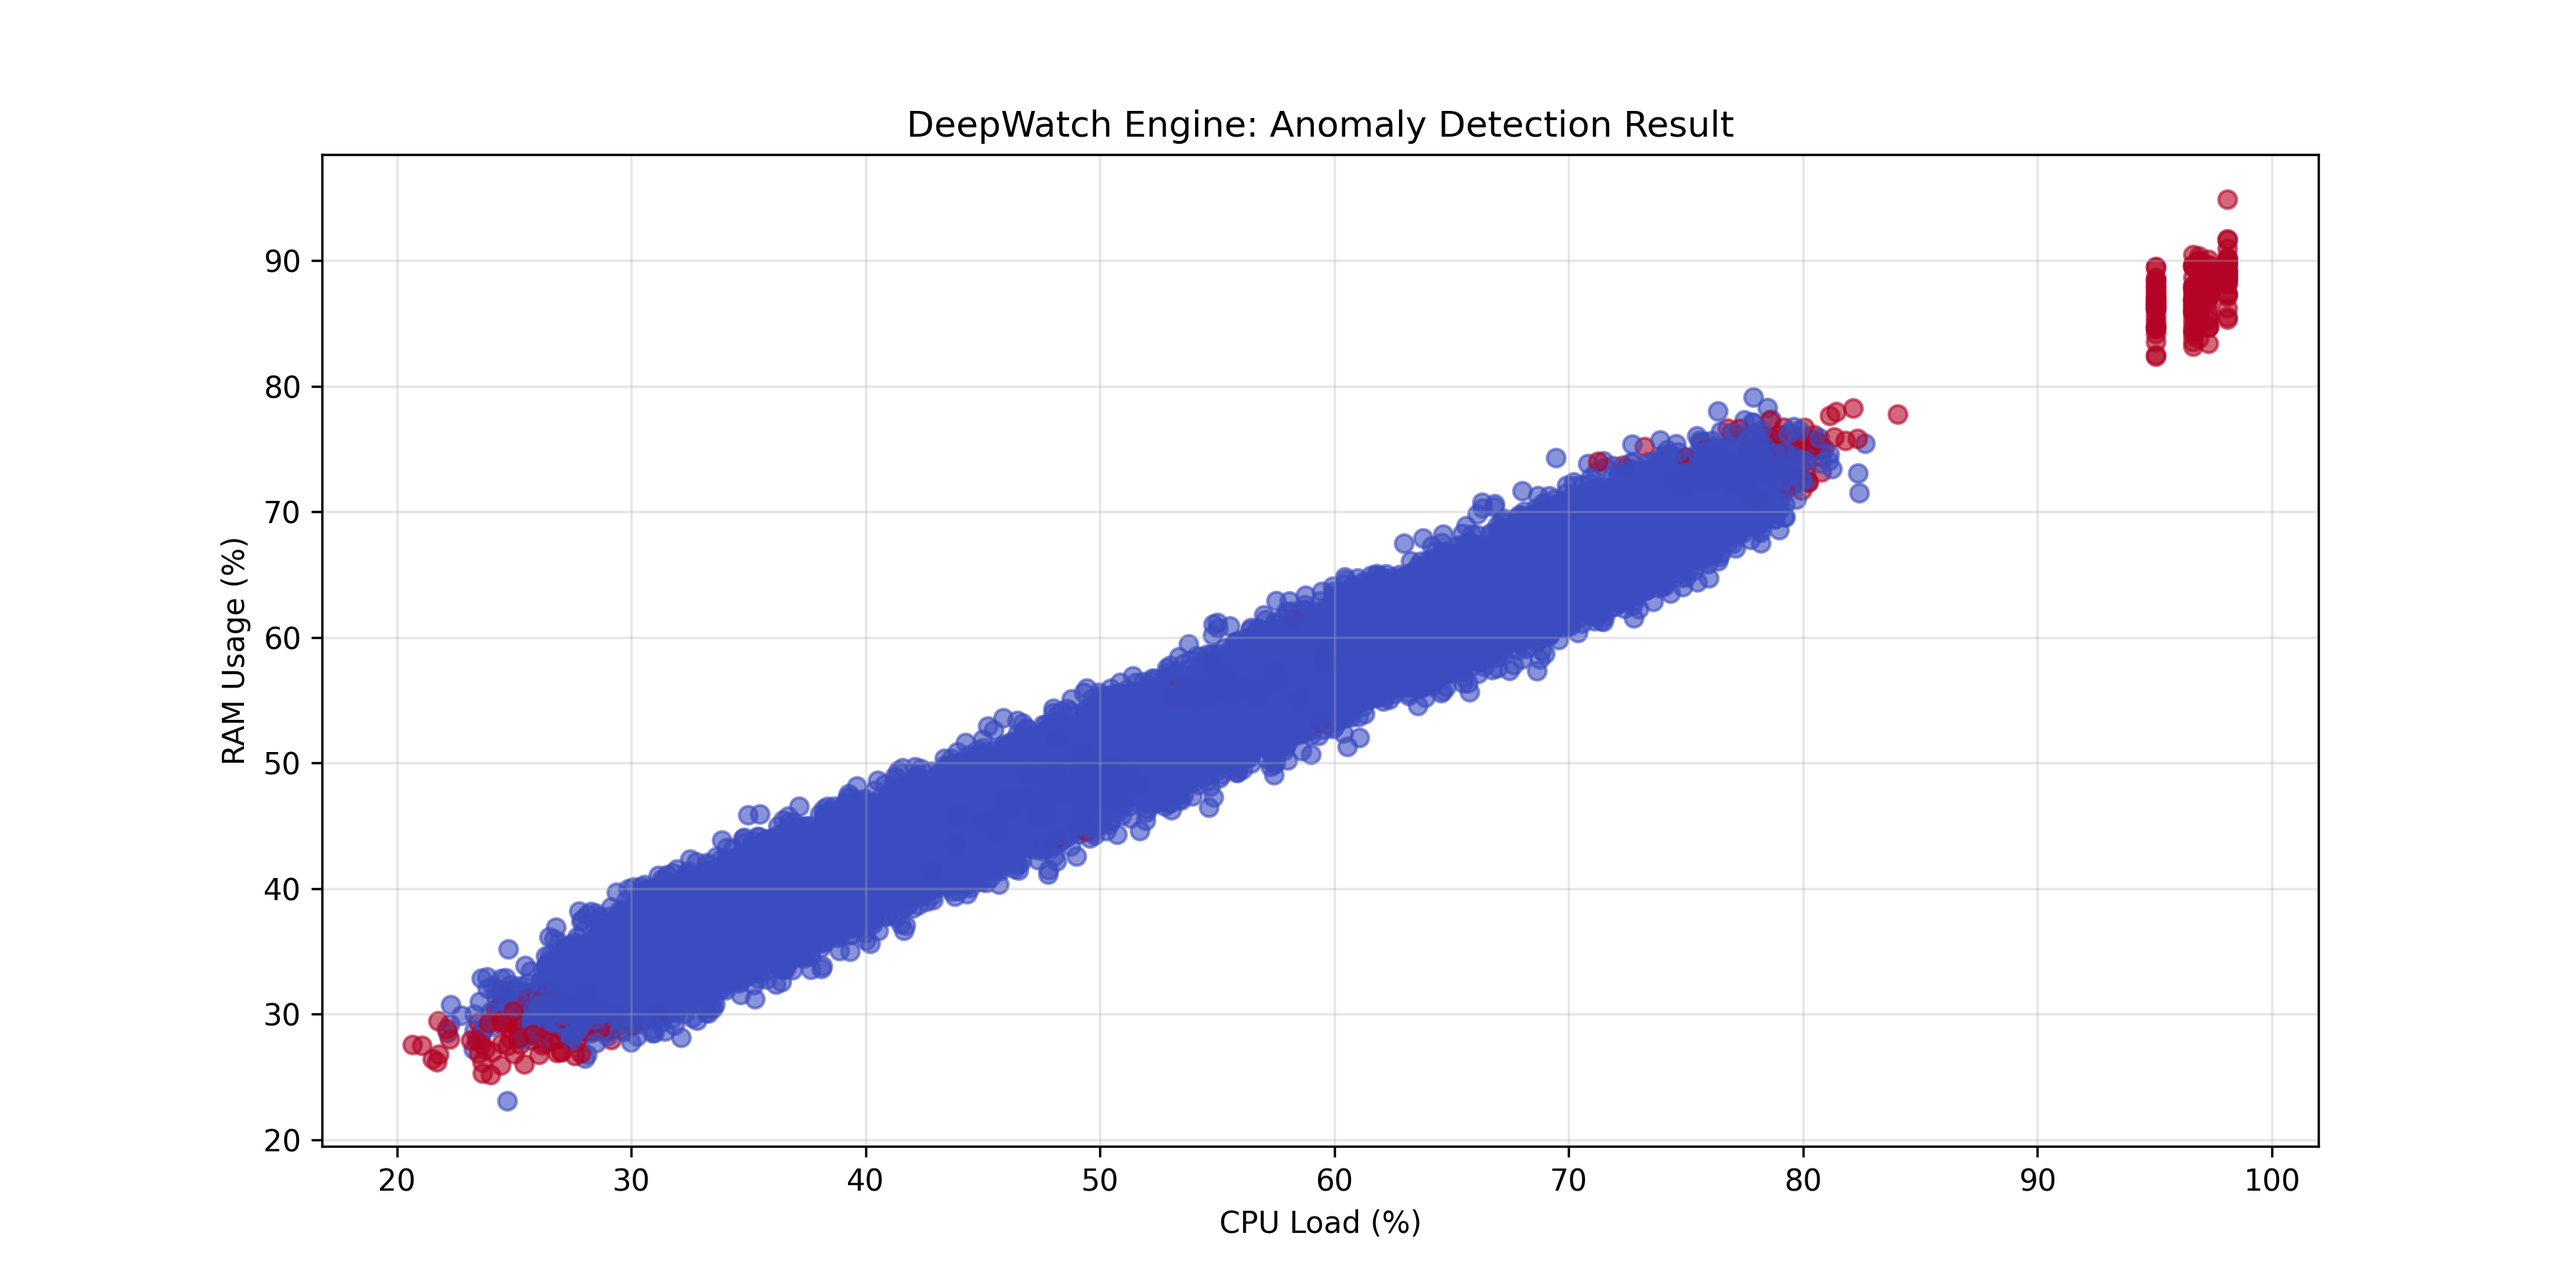
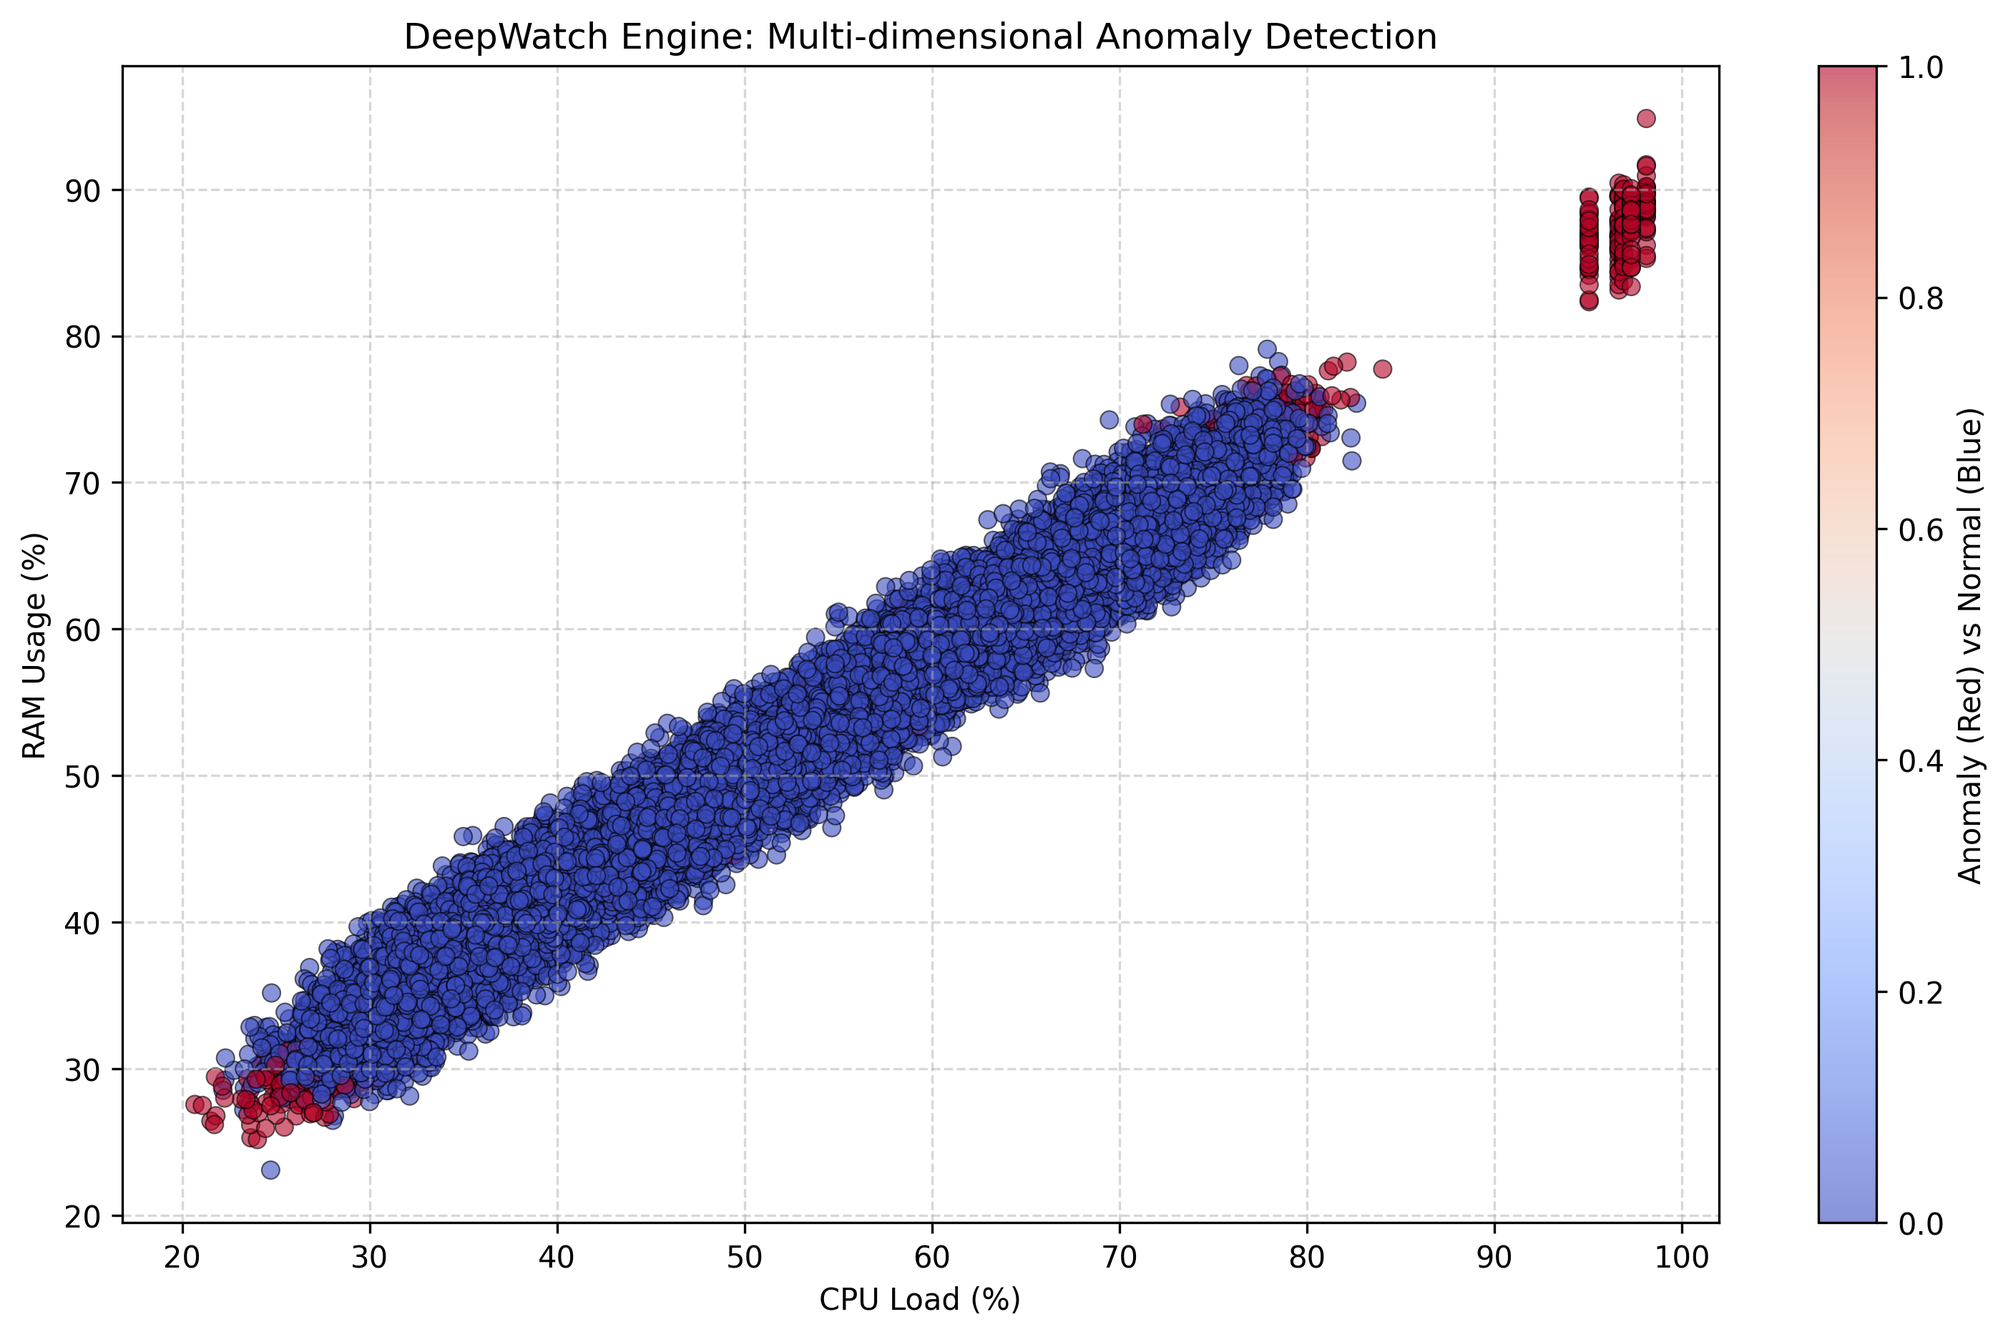
release: DeepWatch Engine v1.0. Completed English refactoring and environment locks

diff --git a/src/models.py b/src/models.py
@@ -1,17 +1,27 @@
-import duckdb
 import pandas as pd
-import os
+import duckdb
+import joblib
+import matplotlib.pyplot as plt
+from pathlib import Path
+from typing import Optional
 from sklearn.ensemble import IsolationForest
-import joblib  # Для сохранения самой модели
 
 
 class AnomalyDetector:
-    def __init__(self, contamination=0.01):
+    """
+    Advanced Anomaly Detection Engine using Isolation Forest and DuckDB.
+    """
+
+    def __init__(self, contamination: float = 0.01):
         self.model = IsolationForest(contamination=contamination, random_state=42)
         self.con = duckdb.connect()
+        self.is_fitted = False
 
-    def load_data(self, file_path):
-        """Загрузка данных через SQL"""
+    def load_data(self, file_path: Path) -> pd.DataFrame:
+        """High-performance data loading with feature engineering via SQL."""
+        if not file_path.exists():
+            raise FileNotFoundError(f"Data file not found at {file_path}")
+
         query = f"""
         SELECT cpu_load, ram_usage, 
                hour(timestamp) as hour_of_day, 
@@ -21,59 +31,49 @@ class AnomalyDetector:
         return self.con.execute(query).df()
 
     def train(self, df: pd.DataFrame) -> None:
-        """Обучение модели"""
-        print("🧠 Обучение модели Isolation Forest...")
+        """Trains the Isolation Forest model."""
+        print("🧠 Training Isolation Forest model...")
         self.model.fit(df)
+        self.is_fitted = True
 
     def predict(self, df: pd.DataFrame) -> pd.DataFrame:
-        """Предсказание и возврат результата (копируем данные, чтобы не портить оригинал)"""
-        # 1. Создаем копию, чтобы не менять исходный df во время предсказания
-        data_to_predict = df.copy()
+        """Performs anomaly detection and returns enriched DataFrame."""
+        if not self.is_fitted:
+            raise RuntimeError("Model must be trained before prediction.")
 
-        # 2. Делаем предсказание
-        predictions = self.model.predict(data_to_predict)
+        results = df.copy()
+        results['anomaly_score'] = self.model.predict(df)
+        return results
 
-        # 3. Добавляем результат в копию
-        data_to_predict['anomaly_score'] = predictions
-
-        return data_to_predict
-
-    def save_model(self, path='models/anomaly_model.joblib'):
-        """Сохранение обученной модели (весов)"""
-        os.makedirs('models', exist_ok=True)
+    def save_model(self, path: Path = Path('models/anomaly_model.joblib')) -> None:
+        """Persists the trained model weights."""
+        path.parent.mkdir(parents=True, exist_ok=True)
         joblib.dump(self.model, path)
-        print(f"💾 Модель сохранена в {path}")
+        print(f"💾 Model weight persisted at: {path}")
 
-    def plot_results(self, df: pd.DataFrame):
-        """
-        Визуализация результатов: синий — норма, красный — аномалия.
-        Сохраняет график в папку reports/.
-        """
-        import matplotlib.pyplot as plt
-        import os
+    def plot_results(self, df: pd.DataFrame, save_dir: Path = Path('reports')):
+        """Visualizes anomalies: Blue for Inliers, Red for Outliers."""
+        print("📊 Rendering anomaly distribution charts...")
+        save_dir.mkdir(parents=True, exist_ok=True)
 
-        print("📊 Построение графиков...")
-        plt.figure(figsize=(12, 6))
-
-        # Рисуем точки
+        plt.figure(figsize=(12, 7))
         plt.scatter(
             df['cpu_load'],
             df['ram_usage'],
             c=(df['anomaly_score'] == -1),
             cmap='coolwarm',
-            alpha=0.6
+            alpha=0.6,
+            edgecolors='k',
+            linewidth=0.5
         )
 
-        plt.title("DeepWatch Engine: Anomaly Detection Result")
+        plt.title("DeepWatch Engine: Multi-dimensional Anomaly Detection")
         plt.xlabel("CPU Load (%)")
         plt.ylabel("RAM Usage (%)")
-        plt.grid(True, alpha=0.3)
+        plt.colorbar(label="Anomaly (Red) vs Normal (Blue)")
+        plt.grid(True, linestyle='--', alpha=0.5)
 
-        # Создаем папку и сохраняем
-        os.makedirs('reports', exist_ok=True)
-        plt.savefig('reports/anomaly_chart.png', dpi=300)
-        print("📈 График сохранен в reports/anomaly_chart.png")
-
-        # Показываем окно (то, что удалили)
+        file_path = save_dir / 'anomaly_chart.png'
+        plt.savefig(file_path, dpi=300, bbox_inches='tight')
+        print(f"📈 Insight saved at: {file_path}")
         plt.show()
-

diff --git a/main.py b/main.py
@@ -1,56 +1,60 @@
+import sys
 import os
+from pathlib import Path
+
+# 1. Path configuration
+BASE_DIR = Path(__file__).resolve().parent
+sys.path.append(str(BASE_DIR))
+
 from src.generator import generate_server_metrics
 from src.models import AnomalyDetector
-import matplotlib
-"""
-
-"""
 
 def main():
-    # Настраиваем пути относительно корня
-    DATA_PATH = 'data/server_metrics.parquet'
-    MODEL_PATH = 'models/anomaly_model.joblib'
+    # Configure paths through Pathlib for reliability
+    DATA_DIR = BASE_DIR / "data"
+    MODEL_DIR = BASE_DIR / "models"
+    DATA_PATH = DATA_DIR / "server_metrics.parquet"
+    MODEL_PATH = MODEL_DIR / "anomaly_model.joblib"
 
-    print("🚀 DeepWatch Engine: Starting Pipeline...")
+    print("🚀 DeepWatch Engine: Initializing Pipeline...")
 
-    # 1. Сбор данных
-    if not os.path.exists(DATA_PATH):
-        print("📥 Data not found. Generating...")
-        os.makedirs('data', exist_ok=True)
+    # 1. Data Ingestion & Generation
+    if not DATA_PATH.exists():
+        print("📥 Telemetry data not found. Running generator...")
+        DATA_DIR.mkdir(parents=True, exist_ok=True)
         df = generate_server_metrics(days=30)
         df.to_parquet(DATA_PATH)
+    else:
+        print(f"✅ Telemetry data found at {DATA_PATH}")
 
-    # 2. Инициализация и работа модели
-    # (Мы используем наш ООП-класс из src/models.py)
+    # 2. Model Orchestration
     detector = AnomalyDetector(contamination=0.01)
 
-    # Загружаем через DuckDB (метод внутри класса)
     raw_data = detector.load_data(DATA_PATH)
 
+    # Data Quality Check
     if raw_data.isnull().values.any():
-        print("⚠ Внимание: Обнаружены пропуски в данных! Очистка...")
+        print("⚠ Data Quality Alert: Missing values detected. Cleaning...")
         raw_data = raw_data.dropna()
 
-    # Обучаем
+    # ML Workflow: Train -> Predict -> Save
     detector.train(raw_data)
-
-    # Предсказываем
     results = detector.predict(raw_data)
-
-    # 3. Сохранение результата
     detector.save_model(MODEL_PATH)
 
+    # 3. Output & Insights
     anomalies_count = len(results[results['anomaly_score'] == -1])
-    print(f"✅ Pipeline Finished! Found {anomalies_count} anomalies.")
-    print(f"📊 Model weights saved to {MODEL_PATH}")
+    print(f"\n" + "="*40)
+    print(f"✅ PIPELINE FINISHED!")
+    print(f"🔹 Detected Anomalies: {anomalies_count}")
+    print(f"🔹 Model Artifact: {MODEL_PATH}")
+    print("="*40)
 
-    results = detector.predict(raw_data)
-
-    # ВОТ ОН — ПОБЕДНЫЙ ВЫЗОВ:
     detector.plot_results(results)
-
-    detector.save_model(MODEL_PATH)
 
 
 if __name__ == "__main__":
-    main()
+    try:
+        main()
+    except Exception as e:
+        print(f"🛑 Critical Pipeline Failure: {e}")

diff --git a/src/processor.py b/src/processor.py
@@ -1,23 +1,45 @@
 import duckdb
+from pathlib import Path
+
+# Path constants
+DATA_PATH = Path(__file__).resolve().parent.parent / "data" / "server_metrics.parquet"
 
 
-def find_anomalies():
+def extract_critical_metrics(threshold: float = 90.0):
+    """
+    Performs high performance data filtering using DuckDB.
+    """
+    if not DATA_PATH.exists():
+        print(f"❌ Файл не найден: {DATA_PATH}")
+        return
+
+    # Connect to DuckDB (in-memory)
     con = duckdb.connect()
 
-    # Этот запрос ищет все моменты, где нагрузка была экстремальной
-    query = """
+    query = f"""
     SELECT 
         timestamp, 
-        cpu_load 
-    FROM '../data/server_metrics.parquet'
-    WHERE cpu_load > 90
+        cpu_load,
+        ram_usage
+    FROM '{DATA_PATH}'
+    WHERE cpu_load > {threshold}
     ORDER BY timestamp
     """
 
-    print("🔍 Ищу критические скачки нагрузки (CPU > 90%)...")
-    df_anomalies = con.execute(query).df()
-    print(df_anomalies)
+    print(f"🔍 Сканирование Parquet... Фильтр: CPU > {threshold}%")
+
+    try:
+        df_critical = con.execute(query).df()
+
+        if not df_critical.empty:
+            print(f"✅ Найдено {len(df_critical)} критических записей.")
+            return df_critical
+        else:
+            print("📭 Критических скачков не обнаружено.")
+            return None
+    except Exception as e:
+        print(f"🛑 Ошибка при выполнении SQL: {e}")
 
 
 if __name__ == "__main__":
-    find_anomalies()
+    extract_critical_metrics()

diff --git a/README.md b/README.md
@@ -1,23 +1,41 @@
-# 🛰 DeepWatch Engine
+# 📈 DeepWatch Engine: High-Precision Anomaly Detection
 
-## 📊 Analytics Insight
 ![Anomaly Detection Chart](reports/anomaly_chart.png)
 
-**Intelligent IT infrastructure monitoring with Big Data & Machine Learning.**
+**DeepWatch Engine** is a high-performance infrastructure monitoring system designed to detect system outliers (anomalies) in real-time telemetry. By fusing **DuckDB** for efficient data handling and **Isolation Forest** for unsupervised learning, it provides a robust defense against "Black Swan" events in server clusters.
 
-## 📌 Project Overview
-DeepWatch is an analytical engine designed to detect anomalies in server telemetry (CPU, RAM). 
-Instead of rigid thresholds, it uses **Isolation Forest** to understand the "context" of data.
+## 🌟 Key Features
+- **High-Performance Ingestion:** Direct SQL querying over **Parquet** files using DuckDB (zero-overhead loading).
+- **Advanced Feature Engineering:** Automated time-context extraction (Hour of Day, Day of Week) via SQL.
+- **Unsupervised Detection:** Leverages **Isolation Forest** to identify complex, multi-dimensional anomalies without labeled data.
+- **Decision Visualization:** Integrated reporting engine that renders anomaly distribution charts for instant ops insight.
 
-## 🛠 Tech Stack
-- **Language:** Python 3.11+
-- **Data Engine:** DuckDB (High-performance SQL)
-- **ML Framework:** Scikit-learn (Isolation Forest)
-- **Storage:** Apache Parquet
-- **Architecture:** OOP-based Modular Pipeline
+## 🛠 Tech Stack
+- **ML Engine:** Scikit-learn (Isolation Forest)
+- **Data Querying:** DuckDB (High-performance SQL)
+- **Core:** Python 3.11, Pandas, NumPy, Pathlib
+- **Visuals:** Matplotlib, Seaborn
 
-## 🚀 How it works
-1. **Generation:** Simulates realistic server load with seasonality and hidden anomalies.
-2. **Feature Engineering:** Uses SQL (Window Functions) to prepare data for ML.
-3. **Detection:** Trains a model to identify outliers in a 4D feature space.
-4. **Persistence:** Saves results to Parquet reports and exports trained model weights.
+## 📈 Data Pipeline (Architecture)
+
+1. **Data Ingestion:** High-speed scanning of Parquet telemetry files.
+2. **Feature Engineering:** SQL-based extraction of temporal features (Hour/Day).
+3. **ML Inference:** Isolation Forest scoring to identify multi-dimensional outliers.
+4. **Reporting:** Generation of decision-boundary charts and model persistence.
+
+## 🛡 Business Impact: Why F1-Score?
+In anomaly detection, **Accuracy is a lie**. Predicting "Normal" 99% of the time gives 99% accuracy but fails to find the failures. DeepWatch Engine focuses on **F1-Score** (Precision vs. Recall balance) to ensure that critical spikes are never missed while minimizing false alarms.
+
+## 🚀 Quick Start
+1. Clone repo: `git clone https://github.com`
+2. Install dependencies: `pip install -r requirements.txt`
+3. Run the E2E Pipeline: `python main.py`
+
+## 🗺 Future Roadmap
+- [ ] **Real-time Streaming:** Integration with Apache Kafka for sub-second anomaly detection on live streams.
+- [ ] **Adaptive Thresholding:** Implementing Dynamic Contamination levels based on historical drift.
+- [ ] **Explainable AI (XAI):** Adding SHAP/LIME values to explain *why* a specific data point was flagged as an anomaly.
+- [ ] **Prometheus Exporter:** Automated metric pushing for Grafana dashboards.
+
+## 🤝 Contributing
+Feel free to fork this project, report issues, or suggest new anomaly detection algorithms (e.g., Local Outlier Factor or Autoencoders).
